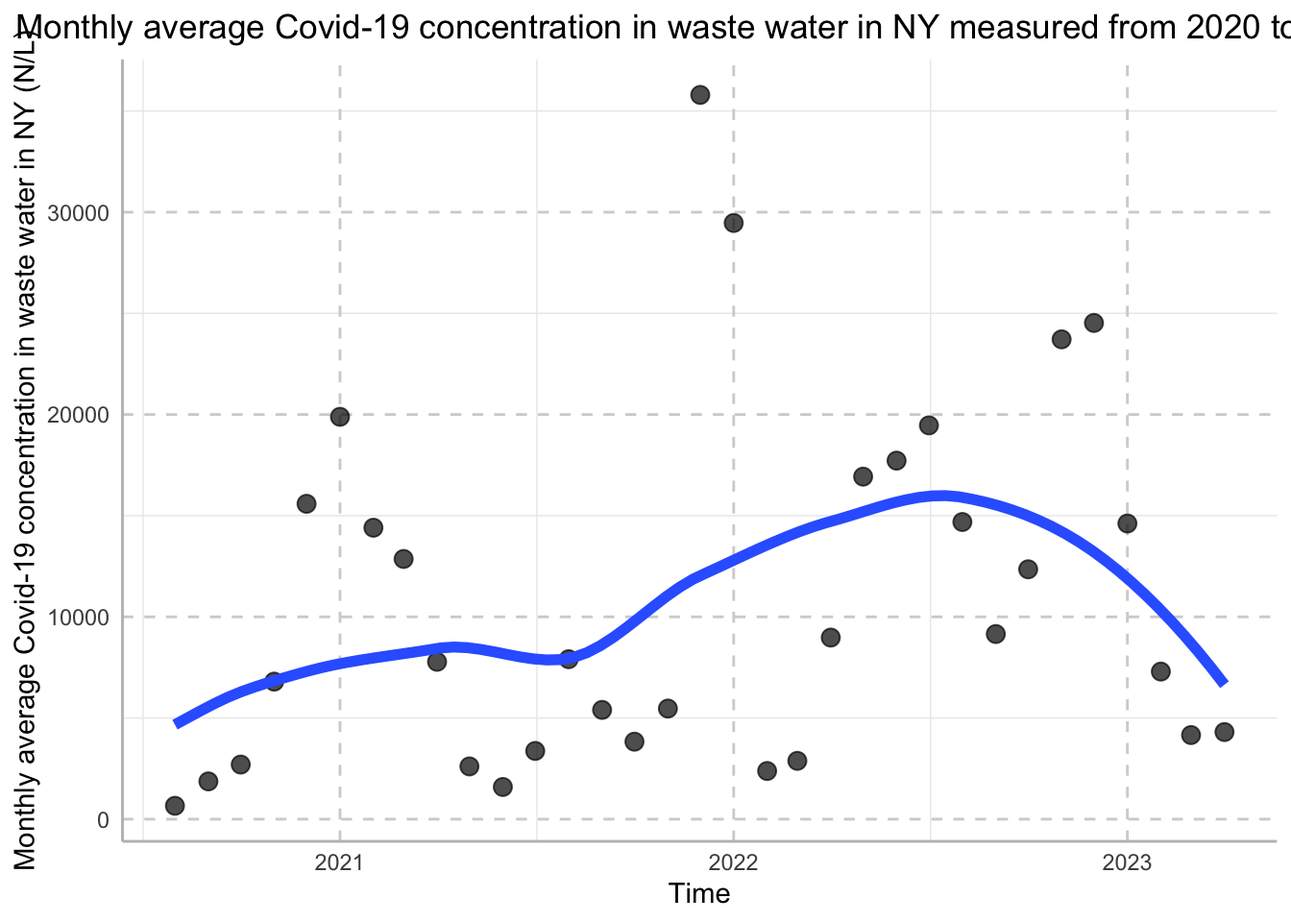
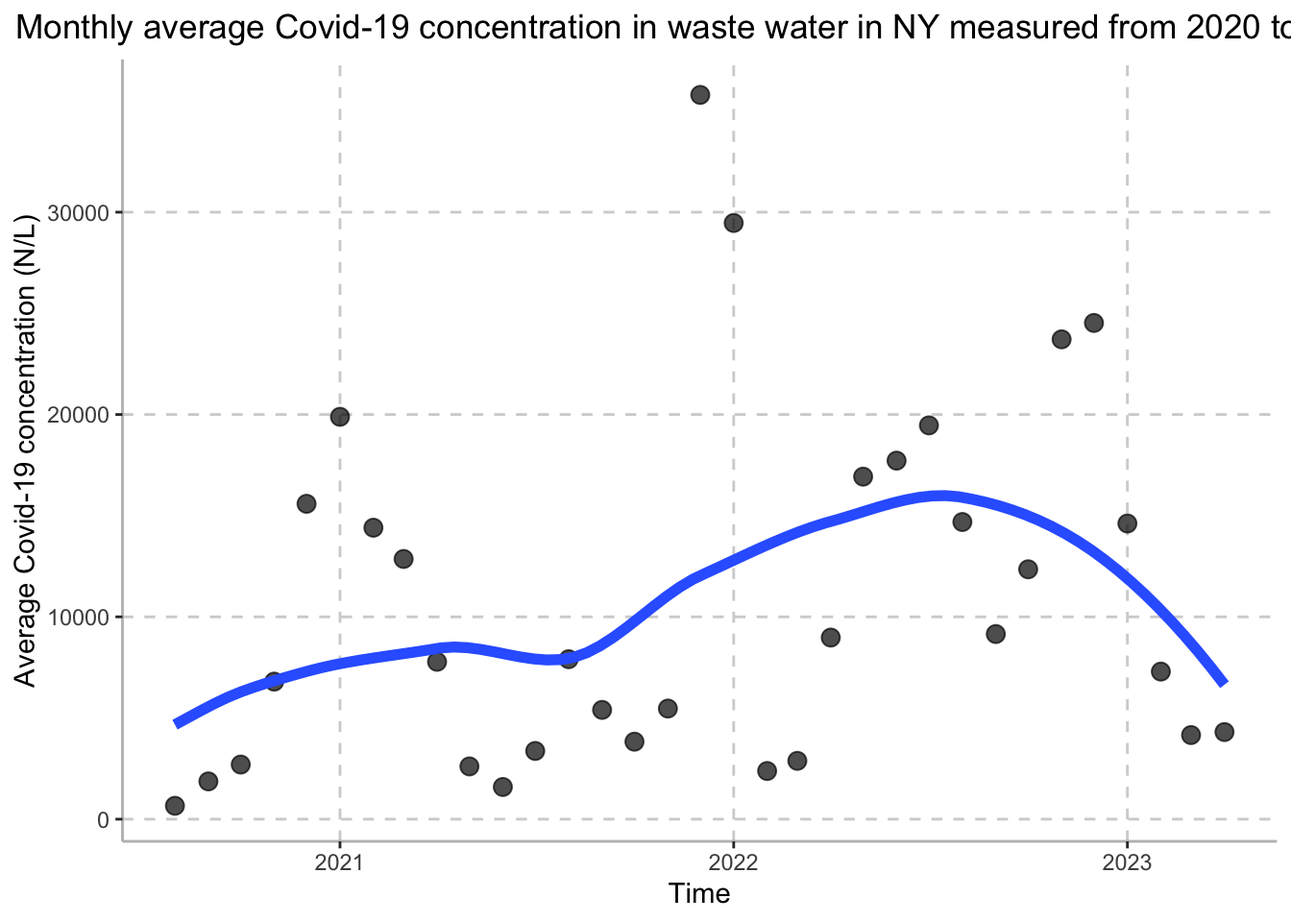
added to report

Changed region(s): [[0.0, 0.0312, 0.0312, 0.9375]]

diff --git a/report.html b/report.html
@@ -427,17 +427,10 @@ analysis and visualizations skills.</p>
 Data)</p></li>
 <li><p>HydroWaste Mapping data (figshare)</p></li>
 </ul>
-<p>For our purposes, we have loaded the following R packages:</p>
-<ul>
-<li><code>tidyverse</code></li>
-<li><code>ggridges</code></li>
-<li><code>patchwork</code></li>
-<li><code>readxl</code></li>
-<li><code>lubridate</code></li>
-<li><code>leaflet</code></li>
-<li><code>readr</code></li>
-<li><code>knitr</code></li>
-</ul>
+<p>For our purposes, we have loaded the following R packages: *
+<code>tidyverse</code> * <code>ggridges</code> * <code>patchwork</code>
+* <code>readxl</code> * <code>lubridate</code> * <code>leaflet</code> *
+<code>readr</code> * <code>knitr</code></p>
 <pre class="r"><code>library(tidyverse)
 library(ggridges)
 library(patchwork)
@@ -1265,6 +1258,8 @@ analysis).</p>
   janitor:: clean_names()</code></pre>
 <p><br /></p>
 <pre class="r"><code>merge_df &lt;- inner_join(map_df, wwtp_df, by = &quot;wrrf_abbreviation&quot;)</code></pre>
+<p><br /> After cleaning, we merged the mapping and wastewater COVID-19
+concentrations datasets to <code>nyc_wastewater</code>.</p>
 <pre class="r"><code>nyc_wastewater &lt;-
   merge_df |&gt;
   rename(concentration = concentration_sars_co_v_2_gene_target_n1_copies_l) |&gt;
@@ -1532,13 +1527,18 @@ from 2020 to 2023.</p>
   geom_smooth(size = 2, se = FALSE, alpha = .3) +
     labs(
       x = &quot;Time&quot;, 
-      y = &quot;Monthly average Covid-19 concentration in waste water in NY (N/L)&quot;) + 
+      y = &quot;Average Covid-19 concentration (N/L)&quot;) + 
   theme(axis.line = element_line(color = &quot;grey&quot;), 
       panel.background = element_blank(), 
       legend.position = &quot;none&quot;, 
       panel.grid.major = element_line(color = &quot;light grey&quot;, linetype = &quot;dashed&quot;),
       plot.title = element_text(hjust = 0.5)) + 
   ggtitle(&quot;Monthly average Covid-19 concentration in waste water in NY measured from 2020 to 2023&quot;)</code></pre>
+<pre><code>## Warning: Using `size` aesthetic for lines was deprecated in ggplot2 3.4.0.
+## ℹ Please use `linewidth` instead.
+## This warning is displayed once every 8 hours.
+## Call `lifecycle::last_lifecycle_warnings()` to see where this warning was
+## generated.</code></pre>
 <p><img src="report_files/figure-html/unnamed-chunk-4-1.png" width="672" />
 <br /></p>
 <pre class="r"><code>rtqpcr &lt;-
@@ -1635,8 +1635,8 @@ class="section level4">
   )
 
 box_plot_2021</code></pre>
-<div class="plotly html-widget html-fill-item-overflow-hidden html-fill-item" id="htmlwidget-94d90f329666d4eeb292" style="width:672px;height:480px;"></div>
-<script type="application/json" data-for="htmlwidget-94d90f329666d4eeb292">{"x":{"visdat":{"b0906ba2bc0b":["function () ","plotlyVisDat"]},"cur_data":"b0906ba2bc0b","attrs":{"b0906ba2bc0b":{"x":{},"y":{},"color":{},"colors":"viridis","alpha_stroke":1,"sizes":[10,100],"spans":[1,20],"type":"box"}},"layout":{"margin":{"b":40,"l":60,"t":25,"r":10},"xaxis":{"domain":[0,1],"automargin":true,"title":"Mean concentration (N/L)"},"yaxis":{"domain":[0,1],"automargin":true,"title":"Area","type":"category","categoryorder":"array","categoryarray":["26th Ward","Bowery Bay","Coney Island","Hunts Point","Jamaica Bay","Newtown Creek","North River","Oakwood Beach","Owls Head","Port Richmond","Red Hook","Rockaway","Tallman Island","Wards Island"]},"showlegend":false,"hovermode":"closest"},"source":"A","config":{"modeBarButtonsToAdd":["hoverclosest","hovercompare"],"showSendToCloud":false},"data":[{"fillcolor":"rgba(68,1,84,0.5)","x":[19404.444444444445,14387.75,11893.75,7312.3999999999996,2859.25,661.33333333333337,2733.1666666666665,8759.5555555555547,3922.7142857142858,2796.7142857142858,5947.166666666667,37849.666666666664],"y":["26th Ward","26th Ward","26th Ward","26th Ward","26th Ward","26th Ward","26th Ward","26th Ward","26th Ward","26th Ward","26th Ward","26th Ward"],"type":"box","orientation":"h","name":"26th Ward","marker":{"color":"rgba(68,1,84,1)","line":{"color":"rgba(68,1,84,1)"}},"line":{"color":"rgba(68,1,84,1)"},"xaxis":"x","yaxis":"y","frame":null},{"fillcolor":"rgba(72,29,111,0.5)","x":[22236.125,14699.5,14500.5,7602.8000000000002,2465.875,949.22222222222217,3105.4000000000001,9738.75,3420.4285714285716,6998.4285714285716,9426,46098],"y":["Bowery Bay","Bowery Bay","Bowery Bay","Bowery Bay","Bowery Bay","Bowery Bay","Bowery Bay","Bowery Bay","Bowery Bay","Bowery Bay","Bowery Bay","Bowery Bay"],"type":"box","orientation":"h","name":"Bowery Bay","marker":{"color":"rgba(72,29,111,1)","line":{"color":"rgba(72,29,111,1)"}},"line":{"color":"rgba(72,29,111,1)"},"xaxis":"x","yaxis":"y","frame":null},{"fillcolor":"rgba(69,53,129,0.5)","x":[16827.111111111109,18548.25,12572,8683.3999999999996,2709.25,1384,2065.8000000000002,8187.3999999999996,4576.1428571428569,4226.8571428571431,5169.333333333333,31841],"y":["Coney Island","Coney Island","Coney Island","Coney Island","Coney Island","Coney Island","Coney Island","Coney Island","Coney Island","Coney Island","Coney Island","Coney Island"],"type":"box","orientation":"h","name":"Coney Island","marker":{"color":"rgba(69,53,129,1)","line":{"color":"rgba(69,53,129,1)"}},"line":{"color":"rgba(69,53,129,1)"},"xaxis":"x","yaxis":"y","frame":null},{"fillcolor":"rgba(61,77,138,0.5)","x":[22977.111111111109,16638.25,10327.75,4251.6000000000004,1587.5,626.11111111111109,2182.8000000000002,8187.125,4499,1580.5714285714287,3983,37614.833333333336],"y":["Hunts Point","Hunts Point","Hunts Point","Hunts Point","Hunts Point","Hunts Point","Hunts Point","Hunts Point","Hunts Point","Hunts Point","Hunts Point","Hunts Point"],"type":"box","orientation":"h","name":"Hunts Point","marker":{"color":"rgba(61,77,138,1)","line":{"color":"rgba(61,77,138,1)"}},"line":{"color":"rgba(61,77,138,1)"},"xaxis":"x","yaxis":"y","frame":null},{"fillcolor":"rgba(52,97,141,0.5)","x":[32564.777777777777,17678,17449,9943.3999999999996,2009.375,680,3818.1666666666665,14072.1,7586,3869.7142857142858,7919.333333333333,50178.666666666664],"y":["Jamaica Bay","Jamaica Bay","Jamaica Bay","Jamaica Bay","Jamaica Bay","Jamaica Bay","Jamaica Bay","Jamaica Bay","Jamaica Bay","Jamaica Bay","Jamaica Bay","Jamaica Bay"],"type":"box","orientation":"h","name":"Jamaica Bay","marker":{"color":"rgba(52,97,141,1)","line":{"color":"rgba(52,97,141,1)"}},"line":{"color":"rgba(52,97,141,1)"},"xaxis":"x","yaxis":"y","frame":null},{"fillcolor":"rgba(43,116,142,0.5)","x":[14701.222222222223,11006.25,13303.75,5051,2797.875,648.14285714285711,4342.2857142857147,5833.5,5192,3236.5714285714284,4613.166666666667,36904.666666666664],"y":["Newtown Creek","Newtown Creek","Newtown Creek","Newtown Creek","Newtown Creek","Newtown Creek","Newtown Creek","Newtown Creek","Newtown Creek","Newtown Creek","Newtown Creek","Newtown Creek"],"type":"box","orientation":"h","name":"Newtown Creek","marker":{"color":"rgba(43,116,142,1)","line":{"color":"rgba(43,116,142,1)"}},"line":{"color":"rgba(43,116,142,1)"},"xaxis":"x","yaxis":"y","frame":null},{"fillcolor":"rgba(36,135,142,0.5)","x":[15331.444444444445,10068.75,5864,5265.8000000000002,1222.125,799.33333333333337,2193.75,5457,4052.5714285714284,3800.8571428571427,4488.666666666667,28600.166666666668],"y":["North River","North River","North River","North River","North River","North River","North River","North River","North River","North River","North River","North River"],"type":"box","orientation":"h","name":"North River","marker":{"color":"rgba(36,135,142,1)","line":{"color":"rgba(36,135,142,1)"}},"line":{"color":"rgba(36,135,142,1)"},"xaxis":"x","yaxis":"y","frame":null},{"fillcolor":"rgba(31,153,138,0.5)","x":[16620.222222222223,8231.5,8873.5,11148.200000000001,7303.25,5424.8888888888887,7144.833333333333,7096.3999999999996,10237.857142857143,9110.6666666666661,3648.3333333333335,30185.666666666668],"y":["Oakwood Beach","Oakwood Beach","Oakwood Beach","Oakwood Beach","Oakwood Beach","Oakwood Beach","Oakwood Beach","Oakwood Beach","Oakwood Beach","Oakwood Beach","Oakwood Beach","Oakwood Beach"],"type":"box","orientation":"h","name":"Oakwood Beach","marker":{"color":"rgba(31,153,138,1)","line":{"color":"rgba(31,153,138,1)"}},"line":{"color":"rgba(31,153,138,1)"},"xaxis":"x","yaxis":"y","frame":null},{"fillcolor":"rgba(37,172,130,0.5)","x":[29687.333333333332,26761.25,25045.5,15817.799999999999,3358,5637.7777777777774,6296.6000000000004,14868.299999999999,9454.4285714285706,6147.2857142857147,7836.166666666667,38890],"y":["Owls Head","Owls Head","Owls Head","Owls Head","Owls Head","Owls Head","Owls Head","Owls Head","Owls Head","Owls Head","Owls Head","Owls Head"],"type":"box","orientation":"h","name":"Owls Head","marker":{"color":"rgba(37,172,130,1)","line":{"color":"rgba(37,172,130,1)"}},"line":{"color":"rgba(37,172,130,1)"},"xaxis":"x","yaxis":"y","frame":null},{"fillcolor":"rgba(64,189,114,0.5)","x":[19761.444444444445,11890.25,13368.25,9871,2416.5,1198.2222222222222,1923.2,7326.8000000000002,4773.1428571428569,2960.7142857142858,5404.666666666667,49603],"y":["Port Richmond","Port Richmond","Port Richmond","Port Richmond","Port Richmond","Port Richmond","Port Richmond","Port Richmond","Port Richmond","Port Richmond","Port Richmond","Port Richmond"],"type":"box","orientation":"h","name":"Port Richmond","marker":{"color":"rgba(64,189,114,1)","line":{"color":"rgba(64,189,114,1)"}},"line":{"color":"rgba(64,189,114,1)"},"xaxis":"x","yaxis":"y","frame":null},{"fillcolor":"rgba(103,204,92,0.5)","x":[11529,8473.5,9281.5,3256.1999999999998,1240.375,1028.7142857142858,2979.1666666666665,4760.3000000000002,5945.1428571428569,3153.4285714285716,5572.666666666667,26757],"y":["Red Hook","Red Hook","Red Hook","Red Hook","Red Hook","Red Hook","Red Hook","Red Hook","Red Hook","Red Hook","Red Hook","Red Hook"],"type":"box","orientation":"h","name":"Red Hook","marker":{"color":"rgba(103,204,92,1)","line":{"color":"rgba(103,204,92,1)"}},"line":{"color":"rgba(103,204,92,1)"},"xaxis":"x","yaxis":"y","frame":null},{"fillcolor":"rgba(151,216,62,0.5)","x":[15943.222222222223,7584,7358,5252.1999999999998,2382.125,546.125,1934.2,5097.6000000000004,3316,1590,1478.8333333333333,19011],"y":["Rockaway","Rockaway","Rockaway","Rockaway","Rockaway","Rockaway","Rockaway","Rockaway","Rockaway","Rockaway","Rockaway","Rockaway"],"type":"box","orientation":"h","name":"Rockaway","marker":{"color":"rgba(151,216,62,1)","line":{"color":"rgba(151,216,62,1)"}},"line":{"color":"rgba(151,216,62,1)"},"xaxis":"x","yaxis":"y","frame":null},{"fillcolor":"rgba(203,225,30,0.5)","x":[18241.444444444445,15480.5,16568.5,8637.2000000000007,1714.75,819.375,2599.8000000000002,4637.7777777777774,3752.5714285714284,2217.4285714285716,5794.666666666667,24603.166666666668],"y":["Tallman Island","Tallman Island","Tallman Island","Tallman Island","Tallman Island","Tallman Island","Tallman Island","Tallman Island","Tallman Island","Tallman Island","Tallman Island","Tallman Island"],"type":"box","orientation":"h","name":"Tallman Island","marker":{"color":"rgba(203,225,30,1)","line":{"color":"rgba(203,225,30,1)"}},"line":{"color":"rgba(203,225,30,1)"},"xaxis":"x","yaxis":"y","frame":null},{"fillcolor":"rgba(253,231,37,0.5)","x":[21926.222222222223,20222.75,13640.5,6798.1999999999998,2456.5,1214.7777777777778,2744.3333333333335,6464.2222222222226,4887.8571428571431,2689.4285714285716,5263.333333333333,42995],"y":["Wards Island","Wards Island","Wards Island","Wards Island","Wards Island","Wards Island","Wards Island","Wards Island","Wards Island","Wards Island","Wards Island","Wards Island"],"type":"box","orientation":"h","name":"Wards Island","marker":{"color":"rgba(253,231,37,1)","line":{"color":"rgba(253,231,37,1)"}},"line":{"color":"rgba(253,231,37,1)"},"xaxis":"x","yaxis":"y","frame":null}],"highlight":{"on":"plotly_click","persistent":false,"dynamic":false,"selectize":false,"opacityDim":0.20000000000000001,"selected":{"opacity":1},"debounce":0},"shinyEvents":["plotly_hover","plotly_click","plotly_selected","plotly_relayout","plotly_brushed","plotly_brushing","plotly_clickannotation","plotly_doubleclick","plotly_deselect","plotly_afterplot","plotly_sunburstclick"],"base_url":"https://plot.ly"},"evals":[],"jsHooks":[]}</script>
+<div class="plotly html-widget html-fill-item-overflow-hidden html-fill-item" id="htmlwidget-383edd4ba9c0d7dd77a9" style="width:672px;height:480px;"></div>
+<script type="application/json" data-for="htmlwidget-383edd4ba9c0d7dd77a9">{"x":{"visdat":{"b41a65104e6":["function () ","plotlyVisDat"]},"cur_data":"b41a65104e6","attrs":{"b41a65104e6":{"x":{},"y":{},"color":{},"colors":"viridis","alpha_stroke":1,"sizes":[10,100],"spans":[1,20],"type":"box"}},"layout":{"margin":{"b":40,"l":60,"t":25,"r":10},"xaxis":{"domain":[0,1],"automargin":true,"title":"Mean concentration (N/L)"},"yaxis":{"domain":[0,1],"automargin":true,"title":"Area","type":"category","categoryorder":"array","categoryarray":["26th Ward","Bowery Bay","Coney Island","Hunts Point","Jamaica Bay","Newtown Creek","North River","Oakwood Beach","Owls Head","Port Richmond","Red Hook","Rockaway","Tallman Island","Wards Island"]},"showlegend":false,"hovermode":"closest"},"source":"A","config":{"modeBarButtonsToAdd":["hoverclosest","hovercompare"],"showSendToCloud":false},"data":[{"fillcolor":"rgba(68,1,84,0.5)","x":[19404.444444444445,14387.75,11893.75,7312.3999999999996,2859.25,661.33333333333337,2733.1666666666665,8759.5555555555547,3922.7142857142858,2796.7142857142858,5947.166666666667,37849.666666666664],"y":["26th Ward","26th Ward","26th Ward","26th Ward","26th Ward","26th Ward","26th Ward","26th Ward","26th Ward","26th Ward","26th Ward","26th Ward"],"type":"box","orientation":"h","name":"26th Ward","marker":{"color":"rgba(68,1,84,1)","line":{"color":"rgba(68,1,84,1)"}},"line":{"color":"rgba(68,1,84,1)"},"xaxis":"x","yaxis":"y","frame":null},{"fillcolor":"rgba(72,29,111,0.5)","x":[22236.125,14699.5,14500.5,7602.8000000000002,2465.875,949.22222222222217,3105.4000000000001,9738.75,3420.4285714285716,6998.4285714285716,9426,46098],"y":["Bowery Bay","Bowery Bay","Bowery Bay","Bowery Bay","Bowery Bay","Bowery Bay","Bowery Bay","Bowery Bay","Bowery Bay","Bowery Bay","Bowery Bay","Bowery Bay"],"type":"box","orientation":"h","name":"Bowery Bay","marker":{"color":"rgba(72,29,111,1)","line":{"color":"rgba(72,29,111,1)"}},"line":{"color":"rgba(72,29,111,1)"},"xaxis":"x","yaxis":"y","frame":null},{"fillcolor":"rgba(69,53,129,0.5)","x":[16827.111111111109,18548.25,12572,8683.3999999999996,2709.25,1384,2065.8000000000002,8187.3999999999996,4576.1428571428569,4226.8571428571431,5169.333333333333,31841],"y":["Coney Island","Coney Island","Coney Island","Coney Island","Coney Island","Coney Island","Coney Island","Coney Island","Coney Island","Coney Island","Coney Island","Coney Island"],"type":"box","orientation":"h","name":"Coney Island","marker":{"color":"rgba(69,53,129,1)","line":{"color":"rgba(69,53,129,1)"}},"line":{"color":"rgba(69,53,129,1)"},"xaxis":"x","yaxis":"y","frame":null},{"fillcolor":"rgba(61,77,138,0.5)","x":[22977.111111111109,16638.25,10327.75,4251.6000000000004,1587.5,626.11111111111109,2182.8000000000002,8187.125,4499,1580.5714285714287,3983,37614.833333333336],"y":["Hunts Point","Hunts Point","Hunts Point","Hunts Point","Hunts Point","Hunts Point","Hunts Point","Hunts Point","Hunts Point","Hunts Point","Hunts Point","Hunts Point"],"type":"box","orientation":"h","name":"Hunts Point","marker":{"color":"rgba(61,77,138,1)","line":{"color":"rgba(61,77,138,1)"}},"line":{"color":"rgba(61,77,138,1)"},"xaxis":"x","yaxis":"y","frame":null},{"fillcolor":"rgba(52,97,141,0.5)","x":[32564.777777777777,17678,17449,9943.3999999999996,2009.375,680,3818.1666666666665,14072.1,7586,3869.7142857142858,7919.333333333333,50178.666666666664],"y":["Jamaica Bay","Jamaica Bay","Jamaica Bay","Jamaica Bay","Jamaica Bay","Jamaica Bay","Jamaica Bay","Jamaica Bay","Jamaica Bay","Jamaica Bay","Jamaica Bay","Jamaica Bay"],"type":"box","orientation":"h","name":"Jamaica Bay","marker":{"color":"rgba(52,97,141,1)","line":{"color":"rgba(52,97,141,1)"}},"line":{"color":"rgba(52,97,141,1)"},"xaxis":"x","yaxis":"y","frame":null},{"fillcolor":"rgba(43,116,142,0.5)","x":[14701.222222222223,11006.25,13303.75,5051,2797.875,648.14285714285711,4342.2857142857147,5833.5,5192,3236.5714285714284,4613.166666666667,36904.666666666664],"y":["Newtown Creek","Newtown Creek","Newtown Creek","Newtown Creek","Newtown Creek","Newtown Creek","Newtown Creek","Newtown Creek","Newtown Creek","Newtown Creek","Newtown Creek","Newtown Creek"],"type":"box","orientation":"h","name":"Newtown Creek","marker":{"color":"rgba(43,116,142,1)","line":{"color":"rgba(43,116,142,1)"}},"line":{"color":"rgba(43,116,142,1)"},"xaxis":"x","yaxis":"y","frame":null},{"fillcolor":"rgba(36,135,142,0.5)","x":[15331.444444444445,10068.75,5864,5265.8000000000002,1222.125,799.33333333333337,2193.75,5457,4052.5714285714284,3800.8571428571427,4488.666666666667,28600.166666666668],"y":["North River","North River","North River","North River","North River","North River","North River","North River","North River","North River","North River","North River"],"type":"box","orientation":"h","name":"North River","marker":{"color":"rgba(36,135,142,1)","line":{"color":"rgba(36,135,142,1)"}},"line":{"color":"rgba(36,135,142,1)"},"xaxis":"x","yaxis":"y","frame":null},{"fillcolor":"rgba(31,153,138,0.5)","x":[16620.222222222223,8231.5,8873.5,11148.200000000001,7303.25,5424.8888888888887,7144.833333333333,7096.3999999999996,10237.857142857143,9110.6666666666661,3648.3333333333335,30185.666666666668],"y":["Oakwood Beach","Oakwood Beach","Oakwood Beach","Oakwood Beach","Oakwood Beach","Oakwood Beach","Oakwood Beach","Oakwood Beach","Oakwood Beach","Oakwood Beach","Oakwood Beach","Oakwood Beach"],"type":"box","orientation":"h","name":"Oakwood Beach","marker":{"color":"rgba(31,153,138,1)","line":{"color":"rgba(31,153,138,1)"}},"line":{"color":"rgba(31,153,138,1)"},"xaxis":"x","yaxis":"y","frame":null},{"fillcolor":"rgba(37,172,130,0.5)","x":[29687.333333333332,26761.25,25045.5,15817.799999999999,3358,5637.7777777777774,6296.6000000000004,14868.299999999999,9454.4285714285706,6147.2857142857147,7836.166666666667,38890],"y":["Owls Head","Owls Head","Owls Head","Owls Head","Owls Head","Owls Head","Owls Head","Owls Head","Owls Head","Owls Head","Owls Head","Owls Head"],"type":"box","orientation":"h","name":"Owls Head","marker":{"color":"rgba(37,172,130,1)","line":{"color":"rgba(37,172,130,1)"}},"line":{"color":"rgba(37,172,130,1)"},"xaxis":"x","yaxis":"y","frame":null},{"fillcolor":"rgba(64,189,114,0.5)","x":[19761.444444444445,11890.25,13368.25,9871,2416.5,1198.2222222222222,1923.2,7326.8000000000002,4773.1428571428569,2960.7142857142858,5404.666666666667,49603],"y":["Port Richmond","Port Richmond","Port Richmond","Port Richmond","Port Richmond","Port Richmond","Port Richmond","Port Richmond","Port Richmond","Port Richmond","Port Richmond","Port Richmond"],"type":"box","orientation":"h","name":"Port Richmond","marker":{"color":"rgba(64,189,114,1)","line":{"color":"rgba(64,189,114,1)"}},"line":{"color":"rgba(64,189,114,1)"},"xaxis":"x","yaxis":"y","frame":null},{"fillcolor":"rgba(103,204,92,0.5)","x":[11529,8473.5,9281.5,3256.1999999999998,1240.375,1028.7142857142858,2979.1666666666665,4760.3000000000002,5945.1428571428569,3153.4285714285716,5572.666666666667,26757],"y":["Red Hook","Red Hook","Red Hook","Red Hook","Red Hook","Red Hook","Red Hook","Red Hook","Red Hook","Red Hook","Red Hook","Red Hook"],"type":"box","orientation":"h","name":"Red Hook","marker":{"color":"rgba(103,204,92,1)","line":{"color":"rgba(103,204,92,1)"}},"line":{"color":"rgba(103,204,92,1)"},"xaxis":"x","yaxis":"y","frame":null},{"fillcolor":"rgba(151,216,62,0.5)","x":[15943.222222222223,7584,7358,5252.1999999999998,2382.125,546.125,1934.2,5097.6000000000004,3316,1590,1478.8333333333333,19011],"y":["Rockaway","Rockaway","Rockaway","Rockaway","Rockaway","Rockaway","Rockaway","Rockaway","Rockaway","Rockaway","Rockaway","Rockaway"],"type":"box","orientation":"h","name":"Rockaway","marker":{"color":"rgba(151,216,62,1)","line":{"color":"rgba(151,216,62,1)"}},"line":{"color":"rgba(151,216,62,1)"},"xaxis":"x","yaxis":"y","frame":null},{"fillcolor":"rgba(203,225,30,0.5)","x":[18241.444444444445,15480.5,16568.5,8637.2000000000007,1714.75,819.375,2599.8000000000002,4637.7777777777774,3752.5714285714284,2217.4285714285716,5794.666666666667,24603.166666666668],"y":["Tallman Island","Tallman Island","Tallman Island","Tallman Island","Tallman Island","Tallman Island","Tallman Island","Tallman Island","Tallman Island","Tallman Island","Tallman Island","Tallman Island"],"type":"box","orientation":"h","name":"Tallman Island","marker":{"color":"rgba(203,225,30,1)","line":{"color":"rgba(203,225,30,1)"}},"line":{"color":"rgba(203,225,30,1)"},"xaxis":"x","yaxis":"y","frame":null},{"fillcolor":"rgba(253,231,37,0.5)","x":[21926.222222222223,20222.75,13640.5,6798.1999999999998,2456.5,1214.7777777777778,2744.3333333333335,6464.2222222222226,4887.8571428571431,2689.4285714285716,5263.333333333333,42995],"y":["Wards Island","Wards Island","Wards Island","Wards Island","Wards Island","Wards Island","Wards Island","Wards Island","Wards Island","Wards Island","Wards Island","Wards Island"],"type":"box","orientation":"h","name":"Wards Island","marker":{"color":"rgba(253,231,37,1)","line":{"color":"rgba(253,231,37,1)"}},"line":{"color":"rgba(253,231,37,1)"},"xaxis":"x","yaxis":"y","frame":null}],"highlight":{"on":"plotly_click","persistent":false,"dynamic":false,"selectize":false,"opacityDim":0.20000000000000001,"selected":{"opacity":1},"debounce":0},"shinyEvents":["plotly_hover","plotly_click","plotly_selected","plotly_relayout","plotly_brushed","plotly_brushing","plotly_clickannotation","plotly_doubleclick","plotly_deselect","plotly_afterplot","plotly_sunburstclick"],"base_url":"https://plot.ly"},"evals":[],"jsHooks":[]}</script>
 <p><br /></p>
 </div>
 <div id="average-covid-19-concentration-by-waste-water-facility-in-2022"
@@ -1660,17 +1660,27 @@ class="section level4">
   )
 
 box_plot_2021</code></pre>
-<div class="plotly html-widget html-fill-item-overflow-hidden html-fill-item" id="htmlwidget-7caf4a22d7eca3fac3bc" style="width:672px;height:480px;"></div>
-<script type="application/json" data-for="htmlwidget-7caf4a22d7eca3fac3bc">{"x":{"visdat":{"b0906ba2bc0b":["function () ","plotlyVisDat"]},"cur_data":"b0906ba2bc0b","attrs":{"b0906ba2bc0b":{"x":{},"y":{},"color":{},"colors":"viridis","alpha_stroke":1,"sizes":[10,100],"spans":[1,20],"type":"box"}},"layout":{"margin":{"b":40,"l":60,"t":25,"r":10},"xaxis":{"domain":[0,1],"automargin":true,"title":"Mean concentration (N/L)"},"yaxis":{"domain":[0,1],"automargin":true,"title":"Area","type":"category","categoryorder":"array","categoryarray":["26th Ward","Bowery Bay","Coney Island","Hunts Point","Jamaica Bay","Newtown Creek","North River","Oakwood Beach","Owls Head","Port Richmond","Red Hook","Rockaway","Tallman Island","Wards Island"]},"showlegend":false,"hovermode":"closest"},"source":"A","config":{"modeBarButtonsToAdd":["hoverclosest","hovercompare"],"showSendToCloud":false},"data":[{"fillcolor":"rgba(68,1,84,0.5)","x":[19404.444444444445,14387.75,11893.75,7312.3999999999996,2859.25,661.33333333333337,2733.1666666666665,8759.5555555555547,3922.7142857142858,2796.7142857142858,5947.166666666667,37849.666666666664],"y":["26th Ward","26th Ward","26th Ward","26th Ward","26th Ward","26th Ward","26th Ward","26th Ward","26th Ward","26th Ward","26th Ward","26th Ward"],"type":"box","orientation":"h","name":"26th Ward","marker":{"color":"rgba(68,1,84,1)","line":{"color":"rgba(68,1,84,1)"}},"line":{"color":"rgba(68,1,84,1)"},"xaxis":"x","yaxis":"y","frame":null},{"fillcolor":"rgba(72,29,111,0.5)","x":[22236.125,14699.5,14500.5,7602.8000000000002,2465.875,949.22222222222217,3105.4000000000001,9738.75,3420.4285714285716,6998.4285714285716,9426,46098],"y":["Bowery Bay","Bowery Bay","Bowery Bay","Bowery Bay","Bowery Bay","Bowery Bay","Bowery Bay","Bowery Bay","Bowery Bay","Bowery Bay","Bowery Bay","Bowery Bay"],"type":"box","orientation":"h","name":"Bowery Bay","marker":{"color":"rgba(72,29,111,1)","line":{"color":"rgba(72,29,111,1)"}},"line":{"color":"rgba(72,29,111,1)"},"xaxis":"x","yaxis":"y","frame":null},{"fillcolor":"rgba(69,53,129,0.5)","x":[16827.111111111109,18548.25,12572,8683.3999999999996,2709.25,1384,2065.8000000000002,8187.3999999999996,4576.1428571428569,4226.8571428571431,5169.333333333333,31841],"y":["Coney Island","Coney Island","Coney Island","Coney Island","Coney Island","Coney Island","Coney Island","Coney Island","Coney Island","Coney Island","Coney Island","Coney Island"],"type":"box","orientation":"h","name":"Coney Island","marker":{"color":"rgba(69,53,129,1)","line":{"color":"rgba(69,53,129,1)"}},"line":{"color":"rgba(69,53,129,1)"},"xaxis":"x","yaxis":"y","frame":null},{"fillcolor":"rgba(61,77,138,0.5)","x":[22977.111111111109,16638.25,10327.75,4251.6000000000004,1587.5,626.11111111111109,2182.8000000000002,8187.125,4499,1580.5714285714287,3983,37614.833333333336],"y":["Hunts Point","Hunts Point","Hunts Point","Hunts Point","Hunts Point","Hunts Point","Hunts Point","Hunts Point","Hunts Point","Hunts Point","Hunts Point","Hunts Point"],"type":"box","orientation":"h","name":"Hunts Point","marker":{"color":"rgba(61,77,138,1)","line":{"color":"rgba(61,77,138,1)"}},"line":{"color":"rgba(61,77,138,1)"},"xaxis":"x","yaxis":"y","frame":null},{"fillcolor":"rgba(52,97,141,0.5)","x":[32564.777777777777,17678,17449,9943.3999999999996,2009.375,680,3818.1666666666665,14072.1,7586,3869.7142857142858,7919.333333333333,50178.666666666664],"y":["Jamaica Bay","Jamaica Bay","Jamaica Bay","Jamaica Bay","Jamaica Bay","Jamaica Bay","Jamaica Bay","Jamaica Bay","Jamaica Bay","Jamaica Bay","Jamaica Bay","Jamaica Bay"],"type":"box","orientation":"h","name":"Jamaica Bay","marker":{"color":"rgba(52,97,141,1)","line":{"color":"rgba(52,97,141,1)"}},"line":{"color":"rgba(52,97,141,1)"},"xaxis":"x","yaxis":"y","frame":null},{"fillcolor":"rgba(43,116,142,0.5)","x":[14701.222222222223,11006.25,13303.75,5051,2797.875,648.14285714285711,4342.2857142857147,5833.5,5192,3236.5714285714284,4613.166666666667,36904.666666666664],"y":["Newtown Creek","Newtown Creek","Newtown Creek","Newtown Creek","Newtown Creek","Newtown Creek","Newtown Creek","Newtown Creek","Newtown Creek","Newtown Creek","Newtown Creek","Newtown Creek"],"type":"box","orientation":"h","name":"Newtown Creek","marker":{"color":"rgba(43,116,142,1)","line":{"color":"rgba(43,116,142,1)"}},"line":{"color":"rgba(43,116,142,1)"},"xaxis":"x","yaxis":"y","frame":null},{"fillcolor":"rgba(36,135,142,0.5)","x":[15331.444444444445,10068.75,5864,5265.8000000000002,1222.125,799.33333333333337,2193.75,5457,4052.5714285714284,3800.8571428571427,4488.666666666667,28600.166666666668],"y":["North River","North River","North River","North River","North River","North River","North River","North River","North River","North River","North River","North River"],"type":"box","orientation":"h","name":"North River","marker":{"color":"rgba(36,135,142,1)","line":{"color":"rgba(36,135,142,1)"}},"line":{"color":"rgba(36,135,142,1)"},"xaxis":"x","yaxis":"y","frame":null},{"fillcolor":"rgba(31,153,138,0.5)","x":[16620.222222222223,8231.5,8873.5,11148.200000000001,7303.25,5424.8888888888887,7144.833333333333,7096.3999999999996,10237.857142857143,9110.6666666666661,3648.3333333333335,30185.666666666668],"y":["Oakwood Beach","Oakwood Beach","Oakwood Beach","Oakwood Beach","Oakwood Beach","Oakwood Beach","Oakwood Beach","Oakwood Beach","Oakwood Beach","Oakwood Beach","Oakwood Beach","Oakwood Beach"],"type":"box","orientation":"h","name":"Oakwood Beach","marker":{"color":"rgba(31,153,138,1)","line":{"color":"rgba(31,153,138,1)"}},"line":{"color":"rgba(31,153,138,1)"},"xaxis":"x","yaxis":"y","frame":null},{"fillcolor":"rgba(37,172,130,0.5)","x":[29687.333333333332,26761.25,25045.5,15817.799999999999,3358,5637.7777777777774,6296.6000000000004,14868.299999999999,9454.4285714285706,6147.2857142857147,7836.166666666667,38890],"y":["Owls Head","Owls Head","Owls Head","Owls Head","Owls Head","Owls Head","Owls Head","Owls Head","Owls Head","Owls Head","Owls Head","Owls Head"],"type":"box","orientation":"h","name":"Owls Head","marker":{"color":"rgba(37,172,130,1)","line":{"color":"rgba(37,172,130,1)"}},"line":{"color":"rgba(37,172,130,1)"},"xaxis":"x","yaxis":"y","frame":null},{"fillcolor":"rgba(64,189,114,0.5)","x":[19761.444444444445,11890.25,13368.25,9871,2416.5,1198.2222222222222,1923.2,7326.8000000000002,4773.1428571428569,2960.7142857142858,5404.666666666667,49603],"y":["Port Richmond","Port Richmond","Port Richmond","Port Richmond","Port Richmond","Port Richmond","Port Richmond","Port Richmond","Port Richmond","Port Richmond","Port Richmond","Port Richmond"],"type":"box","orientation":"h","name":"Port Richmond","marker":{"color":"rgba(64,189,114,1)","line":{"color":"rgba(64,189,114,1)"}},"line":{"color":"rgba(64,189,114,1)"},"xaxis":"x","yaxis":"y","frame":null},{"fillcolor":"rgba(103,204,92,0.5)","x":[11529,8473.5,9281.5,3256.1999999999998,1240.375,1028.7142857142858,2979.1666666666665,4760.3000000000002,5945.1428571428569,3153.4285714285716,5572.666666666667,26757],"y":["Red Hook","Red Hook","Red Hook","Red Hook","Red Hook","Red Hook","Red Hook","Red Hook","Red Hook","Red Hook","Red Hook","Red Hook"],"type":"box","orientation":"h","name":"Red Hook","marker":{"color":"rgba(103,204,92,1)","line":{"color":"rgba(103,204,92,1)"}},"line":{"color":"rgba(103,204,92,1)"},"xaxis":"x","yaxis":"y","frame":null},{"fillcolor":"rgba(151,216,62,0.5)","x":[15943.222222222223,7584,7358,5252.1999999999998,2382.125,546.125,1934.2,5097.6000000000004,3316,1590,1478.8333333333333,19011],"y":["Rockaway","Rockaway","Rockaway","Rockaway","Rockaway","Rockaway","Rockaway","Rockaway","Rockaway","Rockaway","Rockaway","Rockaway"],"type":"box","orientation":"h","name":"Rockaway","marker":{"color":"rgba(151,216,62,1)","line":{"color":"rgba(151,216,62,1)"}},"line":{"color":"rgba(151,216,62,1)"},"xaxis":"x","yaxis":"y","frame":null},{"fillcolor":"rgba(203,225,30,0.5)","x":[18241.444444444445,15480.5,16568.5,8637.2000000000007,1714.75,819.375,2599.8000000000002,4637.7777777777774,3752.5714285714284,2217.4285714285716,5794.666666666667,24603.166666666668],"y":["Tallman Island","Tallman Island","Tallman Island","Tallman Island","Tallman Island","Tallman Island","Tallman Island","Tallman Island","Tallman Island","Tallman Island","Tallman Island","Tallman Island"],"type":"box","orientation":"h","name":"Tallman Island","marker":{"color":"rgba(203,225,30,1)","line":{"color":"rgba(203,225,30,1)"}},"line":{"color":"rgba(203,225,30,1)"},"xaxis":"x","yaxis":"y","frame":null},{"fillcolor":"rgba(253,231,37,0.5)","x":[21926.222222222223,20222.75,13640.5,6798.1999999999998,2456.5,1214.7777777777778,2744.3333333333335,6464.2222222222226,4887.8571428571431,2689.4285714285716,5263.333333333333,42995],"y":["Wards Island","Wards Island","Wards Island","Wards Island","Wards Island","Wards Island","Wards Island","Wards Island","Wards Island","Wards Island","Wards Island","Wards Island"],"type":"box","orientation":"h","name":"Wards Island","marker":{"color":"rgba(253,231,37,1)","line":{"color":"rgba(253,231,37,1)"}},"line":{"color":"rgba(253,231,37,1)"},"xaxis":"x","yaxis":"y","frame":null}],"highlight":{"on":"plotly_click","persistent":false,"dynamic":false,"selectize":false,"opacityDim":0.20000000000000001,"selected":{"opacity":1},"debounce":0},"shinyEvents":["plotly_hover","plotly_click","plotly_selected","plotly_relayout","plotly_brushed","plotly_brushing","plotly_clickannotation","plotly_doubleclick","plotly_deselect","plotly_afterplot","plotly_sunburstclick"],"base_url":"https://plot.ly"},"evals":[],"jsHooks":[]}</script>
-<p><br /> <em>Visualizations, summaries, and exploratory statistical
-analyses. Justify the steps you took, and show any major changes to your
+<div class="plotly html-widget html-fill-item-overflow-hidden html-fill-item" id="htmlwidget-648b455aff269450fa10" style="width:672px;height:480px;"></div>
+<script type="application/json" data-for="htmlwidget-648b455aff269450fa10">{"x":{"visdat":{"b41a65104e6":["function () ","plotlyVisDat"]},"cur_data":"b41a65104e6","attrs":{"b41a65104e6":{"x":{},"y":{},"color":{},"colors":"viridis","alpha_stroke":1,"sizes":[10,100],"spans":[1,20],"type":"box"}},"layout":{"margin":{"b":40,"l":60,"t":25,"r":10},"xaxis":{"domain":[0,1],"automargin":true,"title":"Mean concentration (N/L)"},"yaxis":{"domain":[0,1],"automargin":true,"title":"Area","type":"category","categoryorder":"array","categoryarray":["26th Ward","Bowery Bay","Coney Island","Hunts Point","Jamaica Bay","Newtown Creek","North River","Oakwood Beach","Owls Head","Port Richmond","Red Hook","Rockaway","Tallman Island","Wards Island"]},"showlegend":false,"hovermode":"closest"},"source":"A","config":{"modeBarButtonsToAdd":["hoverclosest","hovercompare"],"showSendToCloud":false},"data":[{"fillcolor":"rgba(68,1,84,0.5)","x":[19404.444444444445,14387.75,11893.75,7312.3999999999996,2859.25,661.33333333333337,2733.1666666666665,8759.5555555555547,3922.7142857142858,2796.7142857142858,5947.166666666667,37849.666666666664],"y":["26th Ward","26th Ward","26th Ward","26th Ward","26th Ward","26th Ward","26th Ward","26th Ward","26th Ward","26th Ward","26th Ward","26th Ward"],"type":"box","orientation":"h","name":"26th Ward","marker":{"color":"rgba(68,1,84,1)","line":{"color":"rgba(68,1,84,1)"}},"line":{"color":"rgba(68,1,84,1)"},"xaxis":"x","yaxis":"y","frame":null},{"fillcolor":"rgba(72,29,111,0.5)","x":[22236.125,14699.5,14500.5,7602.8000000000002,2465.875,949.22222222222217,3105.4000000000001,9738.75,3420.4285714285716,6998.4285714285716,9426,46098],"y":["Bowery Bay","Bowery Bay","Bowery Bay","Bowery Bay","Bowery Bay","Bowery Bay","Bowery Bay","Bowery Bay","Bowery Bay","Bowery Bay","Bowery Bay","Bowery Bay"],"type":"box","orientation":"h","name":"Bowery Bay","marker":{"color":"rgba(72,29,111,1)","line":{"color":"rgba(72,29,111,1)"}},"line":{"color":"rgba(72,29,111,1)"},"xaxis":"x","yaxis":"y","frame":null},{"fillcolor":"rgba(69,53,129,0.5)","x":[16827.111111111109,18548.25,12572,8683.3999999999996,2709.25,1384,2065.8000000000002,8187.3999999999996,4576.1428571428569,4226.8571428571431,5169.333333333333,31841],"y":["Coney Island","Coney Island","Coney Island","Coney Island","Coney Island","Coney Island","Coney Island","Coney Island","Coney Island","Coney Island","Coney Island","Coney Island"],"type":"box","orientation":"h","name":"Coney Island","marker":{"color":"rgba(69,53,129,1)","line":{"color":"rgba(69,53,129,1)"}},"line":{"color":"rgba(69,53,129,1)"},"xaxis":"x","yaxis":"y","frame":null},{"fillcolor":"rgba(61,77,138,0.5)","x":[22977.111111111109,16638.25,10327.75,4251.6000000000004,1587.5,626.11111111111109,2182.8000000000002,8187.125,4499,1580.5714285714287,3983,37614.833333333336],"y":["Hunts Point","Hunts Point","Hunts Point","Hunts Point","Hunts Point","Hunts Point","Hunts Point","Hunts Point","Hunts Point","Hunts Point","Hunts Point","Hunts Point"],"type":"box","orientation":"h","name":"Hunts Point","marker":{"color":"rgba(61,77,138,1)","line":{"color":"rgba(61,77,138,1)"}},"line":{"color":"rgba(61,77,138,1)"},"xaxis":"x","yaxis":"y","frame":null},{"fillcolor":"rgba(52,97,141,0.5)","x":[32564.777777777777,17678,17449,9943.3999999999996,2009.375,680,3818.1666666666665,14072.1,7586,3869.7142857142858,7919.333333333333,50178.666666666664],"y":["Jamaica Bay","Jamaica Bay","Jamaica Bay","Jamaica Bay","Jamaica Bay","Jamaica Bay","Jamaica Bay","Jamaica Bay","Jamaica Bay","Jamaica Bay","Jamaica Bay","Jamaica Bay"],"type":"box","orientation":"h","name":"Jamaica Bay","marker":{"color":"rgba(52,97,141,1)","line":{"color":"rgba(52,97,141,1)"}},"line":{"color":"rgba(52,97,141,1)"},"xaxis":"x","yaxis":"y","frame":null},{"fillcolor":"rgba(43,116,142,0.5)","x":[14701.222222222223,11006.25,13303.75,5051,2797.875,648.14285714285711,4342.2857142857147,5833.5,5192,3236.5714285714284,4613.166666666667,36904.666666666664],"y":["Newtown Creek","Newtown Creek","Newtown Creek","Newtown Creek","Newtown Creek","Newtown Creek","Newtown Creek","Newtown Creek","Newtown Creek","Newtown Creek","Newtown Creek","Newtown Creek"],"type":"box","orientation":"h","name":"Newtown Creek","marker":{"color":"rgba(43,116,142,1)","line":{"color":"rgba(43,116,142,1)"}},"line":{"color":"rgba(43,116,142,1)"},"xaxis":"x","yaxis":"y","frame":null},{"fillcolor":"rgba(36,135,142,0.5)","x":[15331.444444444445,10068.75,5864,5265.8000000000002,1222.125,799.33333333333337,2193.75,5457,4052.5714285714284,3800.8571428571427,4488.666666666667,28600.166666666668],"y":["North River","North River","North River","North River","North River","North River","North River","North River","North River","North River","North River","North River"],"type":"box","orientation":"h","name":"North River","marker":{"color":"rgba(36,135,142,1)","line":{"color":"rgba(36,135,142,1)"}},"line":{"color":"rgba(36,135,142,1)"},"xaxis":"x","yaxis":"y","frame":null},{"fillcolor":"rgba(31,153,138,0.5)","x":[16620.222222222223,8231.5,8873.5,11148.200000000001,7303.25,5424.8888888888887,7144.833333333333,7096.3999999999996,10237.857142857143,9110.6666666666661,3648.3333333333335,30185.666666666668],"y":["Oakwood Beach","Oakwood Beach","Oakwood Beach","Oakwood Beach","Oakwood Beach","Oakwood Beach","Oakwood Beach","Oakwood Beach","Oakwood Beach","Oakwood Beach","Oakwood Beach","Oakwood Beach"],"type":"box","orientation":"h","name":"Oakwood Beach","marker":{"color":"rgba(31,153,138,1)","line":{"color":"rgba(31,153,138,1)"}},"line":{"color":"rgba(31,153,138,1)"},"xaxis":"x","yaxis":"y","frame":null},{"fillcolor":"rgba(37,172,130,0.5)","x":[29687.333333333332,26761.25,25045.5,15817.799999999999,3358,5637.7777777777774,6296.6000000000004,14868.299999999999,9454.4285714285706,6147.2857142857147,7836.166666666667,38890],"y":["Owls Head","Owls Head","Owls Head","Owls Head","Owls Head","Owls Head","Owls Head","Owls Head","Owls Head","Owls Head","Owls Head","Owls Head"],"type":"box","orientation":"h","name":"Owls Head","marker":{"color":"rgba(37,172,130,1)","line":{"color":"rgba(37,172,130,1)"}},"line":{"color":"rgba(37,172,130,1)"},"xaxis":"x","yaxis":"y","frame":null},{"fillcolor":"rgba(64,189,114,0.5)","x":[19761.444444444445,11890.25,13368.25,9871,2416.5,1198.2222222222222,1923.2,7326.8000000000002,4773.1428571428569,2960.7142857142858,5404.666666666667,49603],"y":["Port Richmond","Port Richmond","Port Richmond","Port Richmond","Port Richmond","Port Richmond","Port Richmond","Port Richmond","Port Richmond","Port Richmond","Port Richmond","Port Richmond"],"type":"box","orientation":"h","name":"Port Richmond","marker":{"color":"rgba(64,189,114,1)","line":{"color":"rgba(64,189,114,1)"}},"line":{"color":"rgba(64,189,114,1)"},"xaxis":"x","yaxis":"y","frame":null},{"fillcolor":"rgba(103,204,92,0.5)","x":[11529,8473.5,9281.5,3256.1999999999998,1240.375,1028.7142857142858,2979.1666666666665,4760.3000000000002,5945.1428571428569,3153.4285714285716,5572.666666666667,26757],"y":["Red Hook","Red Hook","Red Hook","Red Hook","Red Hook","Red Hook","Red Hook","Red Hook","Red Hook","Red Hook","Red Hook","Red Hook"],"type":"box","orientation":"h","name":"Red Hook","marker":{"color":"rgba(103,204,92,1)","line":{"color":"rgba(103,204,92,1)"}},"line":{"color":"rgba(103,204,92,1)"},"xaxis":"x","yaxis":"y","frame":null},{"fillcolor":"rgba(151,216,62,0.5)","x":[15943.222222222223,7584,7358,5252.1999999999998,2382.125,546.125,1934.2,5097.6000000000004,3316,1590,1478.8333333333333,19011],"y":["Rockaway","Rockaway","Rockaway","Rockaway","Rockaway","Rockaway","Rockaway","Rockaway","Rockaway","Rockaway","Rockaway","Rockaway"],"type":"box","orientation":"h","name":"Rockaway","marker":{"color":"rgba(151,216,62,1)","line":{"color":"rgba(151,216,62,1)"}},"line":{"color":"rgba(151,216,62,1)"},"xaxis":"x","yaxis":"y","frame":null},{"fillcolor":"rgba(203,225,30,0.5)","x":[18241.444444444445,15480.5,16568.5,8637.2000000000007,1714.75,819.375,2599.8000000000002,4637.7777777777774,3752.5714285714284,2217.4285714285716,5794.666666666667,24603.166666666668],"y":["Tallman Island","Tallman Island","Tallman Island","Tallman Island","Tallman Island","Tallman Island","Tallman Island","Tallman Island","Tallman Island","Tallman Island","Tallman Island","Tallman Island"],"type":"box","orientation":"h","name":"Tallman Island","marker":{"color":"rgba(203,225,30,1)","line":{"color":"rgba(203,225,30,1)"}},"line":{"color":"rgba(203,225,30,1)"},"xaxis":"x","yaxis":"y","frame":null},{"fillcolor":"rgba(253,231,37,0.5)","x":[21926.222222222223,20222.75,13640.5,6798.1999999999998,2456.5,1214.7777777777778,2744.3333333333335,6464.2222222222226,4887.8571428571431,2689.4285714285716,5263.333333333333,42995],"y":["Wards Island","Wards Island","Wards Island","Wards Island","Wards Island","Wards Island","Wards Island","Wards Island","Wards Island","Wards Island","Wards Island","Wards Island"],"type":"box","orientation":"h","name":"Wards Island","marker":{"color":"rgba(253,231,37,1)","line":{"color":"rgba(253,231,37,1)"}},"line":{"color":"rgba(253,231,37,1)"},"xaxis":"x","yaxis":"y","frame":null}],"highlight":{"on":"plotly_click","persistent":false,"dynamic":false,"selectize":false,"opacityDim":0.20000000000000001,"selected":{"opacity":1},"debounce":0},"shinyEvents":["plotly_hover","plotly_click","plotly_selected","plotly_relayout","plotly_brushed","plotly_brushing","plotly_clickannotation","plotly_doubleclick","plotly_deselect","plotly_afterplot","plotly_sunburstclick"],"base_url":"https://plot.ly"},"evals":[],"jsHooks":[]}</script>
+<p><br /></p>
+</div>
+</div>
+<div id="interactive-map" class="section level3">
+<h3>Interactive Map</h3>
+<p><em>Visualizations, summaries, and exploratory statistical analyses.
+Justify the steps you took, and show any major changes to your
 ideas.</em></p>
 <p><br /></p>
 </div>
 </div>
-</div>
 <div id="additional-analysis" class="section level2">
 <h2>Additional analysis</h2>
+<p><br /></p>
+<div id="anova" class="section level3">
+<h3>ANOVA</h3>
+</div>
+<div id="logistic-regression" class="section level3">
+<h3>Logistic Regression</h3>
 <p><em>If you undertake formal statistical analyses, describe these in
 detail</em> Discussion: What were your findings? Are they what you
 expect? What insights into the data can you make? As this will be your
@@ -1679,6 +1689,7 @@ report is a standalone document that fully describes your process and
 results. We also expect you to write high-quality code that is
 understandable to an outside reader. Coding collaboratively and actively
 reviewing code within the team will help with this</p>
+</div>
 </div>
 
 
